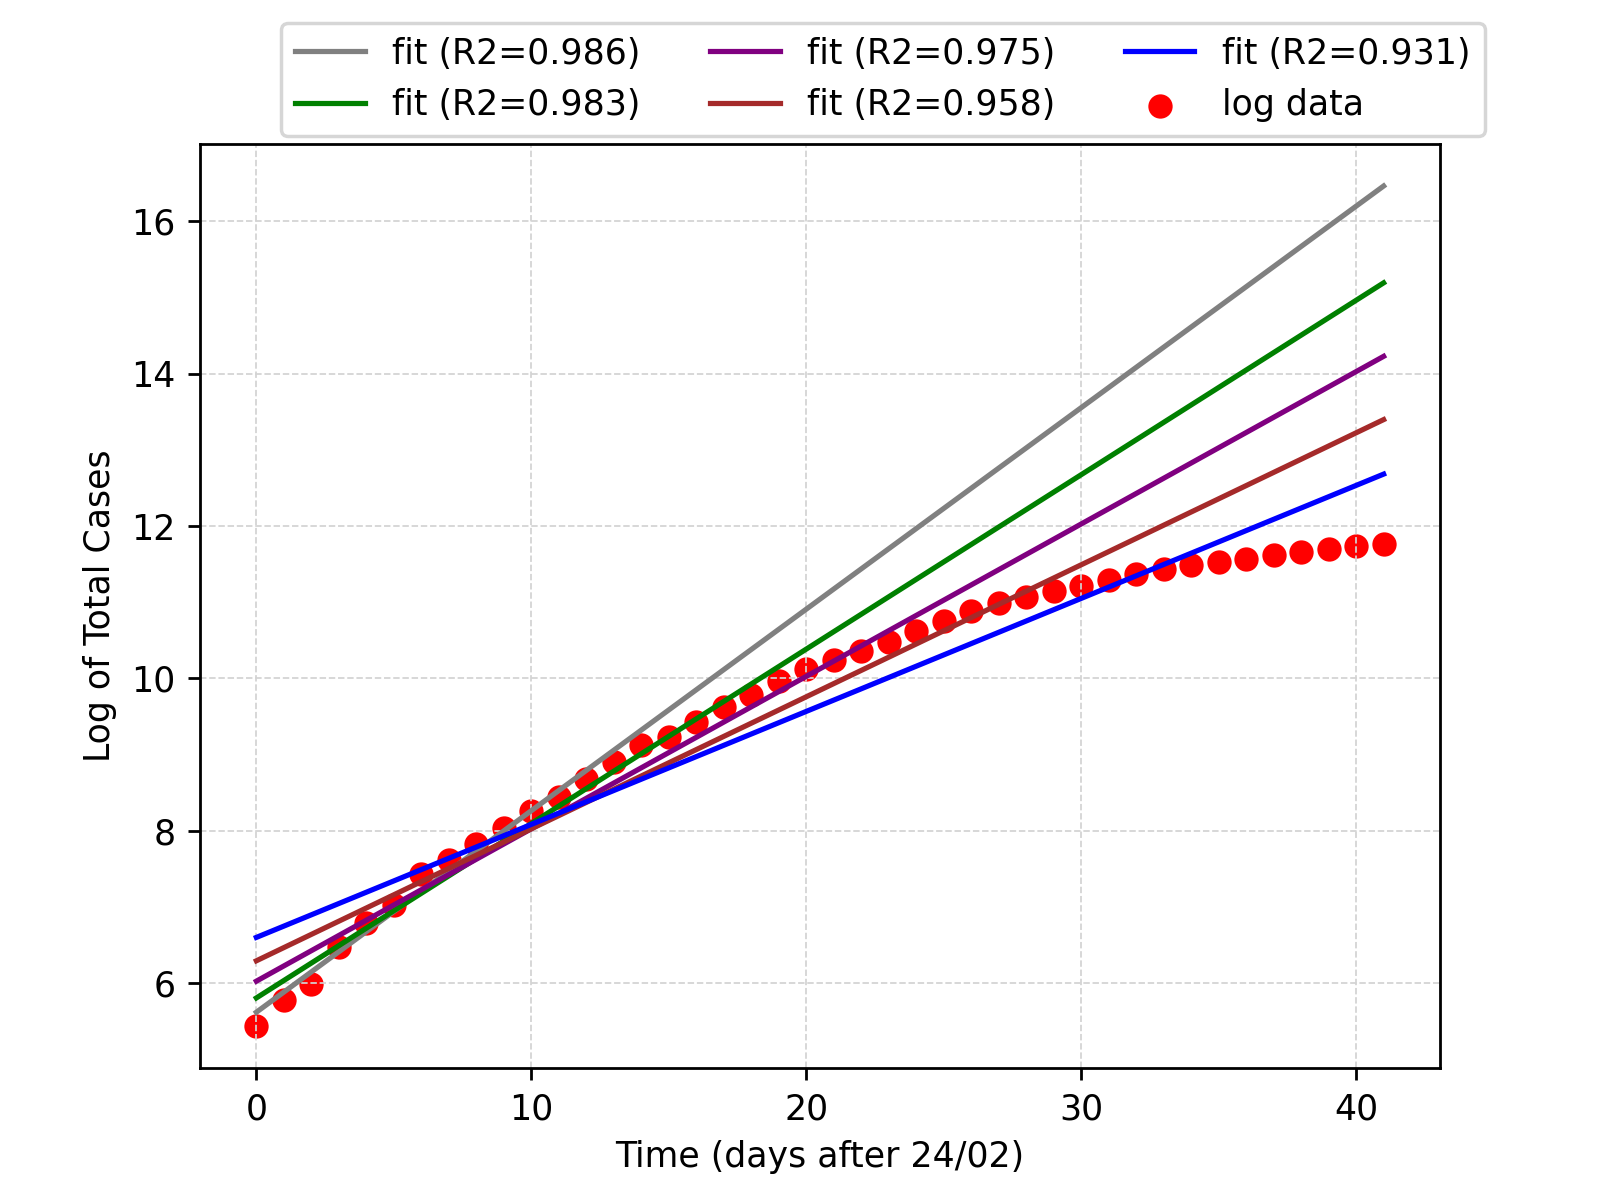
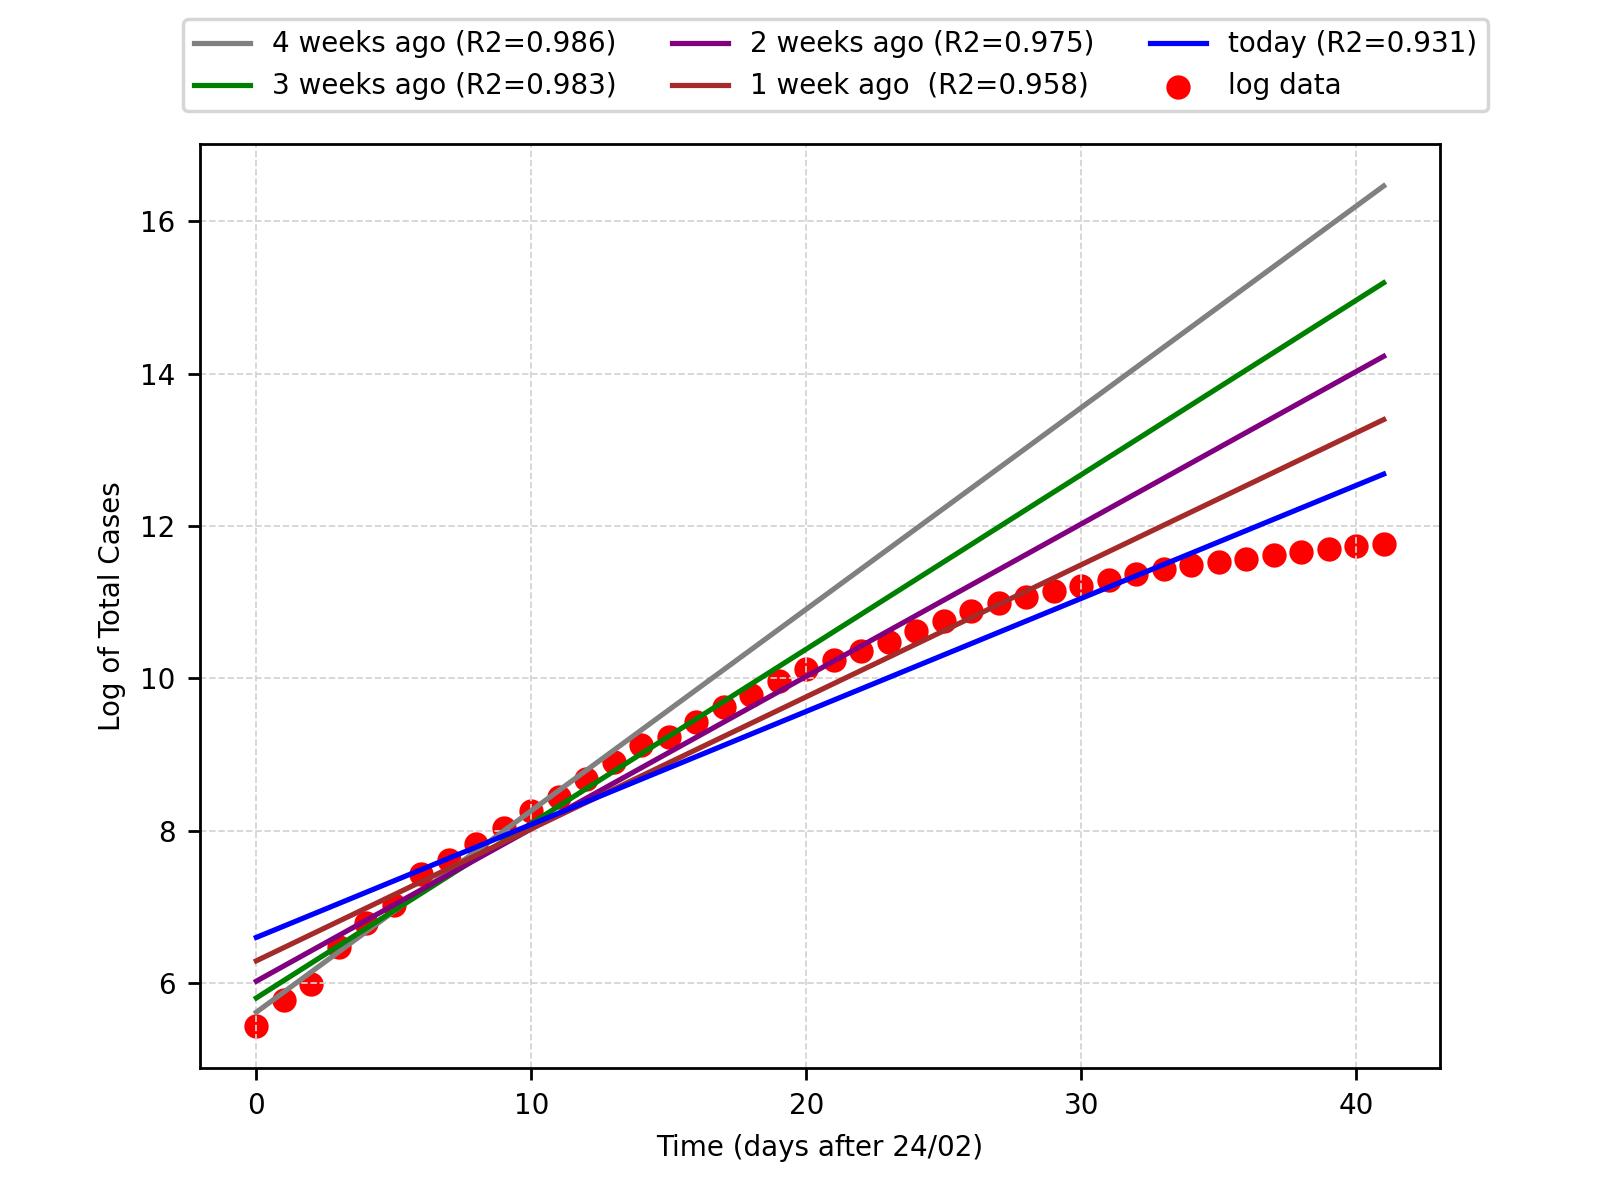
almost

diff --git a/new_fit_2.py b/new_fit_2.py
@@ -6,6 +6,8 @@ import pandas as pd
 #models
 from sklearn.linear_model import LinearRegression
 
+matplotlib.rcParams.update({'font.size': 8})
+
 #import data
 dataset = pd.read_csv('./dati/dpc-covid19-ita-andamento-nazionale.csv')
 
@@ -50,11 +52,11 @@ for i in range(len(regressors)):
 plt.xlabel('Time (days after 24/02)')
 plt.ylabel('Log of Total Cases')
 plt.legend((
-'fit (R2={:.3f})'.format(scores[0]),
-'fit (R2={:.3f})'.format(scores[1]),
-'fit (R2={:.3f})'.format(scores[2]),
-'fit (R2={:.3f})'.format(scores[3]),
-'fit (R2={:.3f})'.format(scores[4]),
+'4 weeks ago (R2={:.3f})'.format(scores[0]),
+'3 weeks ago (R2={:.3f})'.format(scores[1]),
+'2 weeks ago (R2={:.3f})'.format(scores[2]),
+'1 week ago  (R2={:.3f})'.format(scores[3]),
+'today (R2={:.3f})'.format(scores[4]),
 'log data'),
 loc='upper right', bbox_to_anchor=(1.05, 1.15), ncol=3)
 plt.grid(color='lightgray', linestyle='--', linewidth=0.5)
@@ -70,11 +72,11 @@ for i in range(len(regressors)):
 plt.xlabel('Time (days after 24/02)')
 plt.ylabel('Total Cases')
 plt.legend((
-'fit (R2={:.3f})'.format(scores[0]),
-'fit (R2={:.3f})'.format(scores[1]),
-'fit (R2={:.3f})'.format(scores[2]),
-'fit (R2={:.3f})'.format(scores[3]),
-'fit (R2={:.3f})'.format(scores[4]),
+'4 weeks ago (R2={:.3f})'.format(scores[0]),
+'3 weeks ago (R2={:.3f})'.format(scores[1]),
+'2 weeks ago (R2={:.3f})'.format(scores[2]),
+'1 week ago  (R2={:.3f})'.format(scores[3]),
+'today (R2={:.3f})'.format(scores[4]),
 'data'),
 loc='upper right', bbox_to_anchor=(1.05, 1.15), ncol=3)
 plt.grid(color='lightgray', linestyle='--', linewidth=0.5)
@@ -84,3 +86,29 @@ plt.clf()
 plt.close()
 
 ################################################################################################################################
+
+weeks = [i for i in range(5)]
+
+fig = plt.figure()
+ax = fig.add_subplot(1, 1, 1)
+ax.scatter(weeks, growths, s=85, c='orange')
+for i, txt in enumerate(growths):
+    #ax.annotate(txt, (weeks[i], growths[i]))
+    ax.annotate('{:.3f}'.format(txt), (weeks[i], growths[i]))
+plt.xlabel('Time (weeks after feb)')
+plt.ylabel('Coefficient')
+plt.title('Coefficient in time')
+plt.savefig('./FIT/fit_1_2_time_coeff.png', dpi = 250)
+plt.clf()
+
+fig = plt.figure()
+ax = fig.add_subplot(1, 1, 1)
+ax.scatter(weeks, scores, s=85, c='yellow')
+for i, txt in enumerate(scores):
+    #ax.annotate(txt, (weeks[i], scores[i]))
+    ax.annotate('{:.3f}'.format(txt), (weeks[i], scores[i]))
+plt.xlabel('Time (weeks after feb)')
+plt.ylabel('R2 Score')
+plt.title('R2 score in time')
+plt.savefig('./FIT/fit_1_2_time_scores.png', dpi = 250)
+plt.clf()
